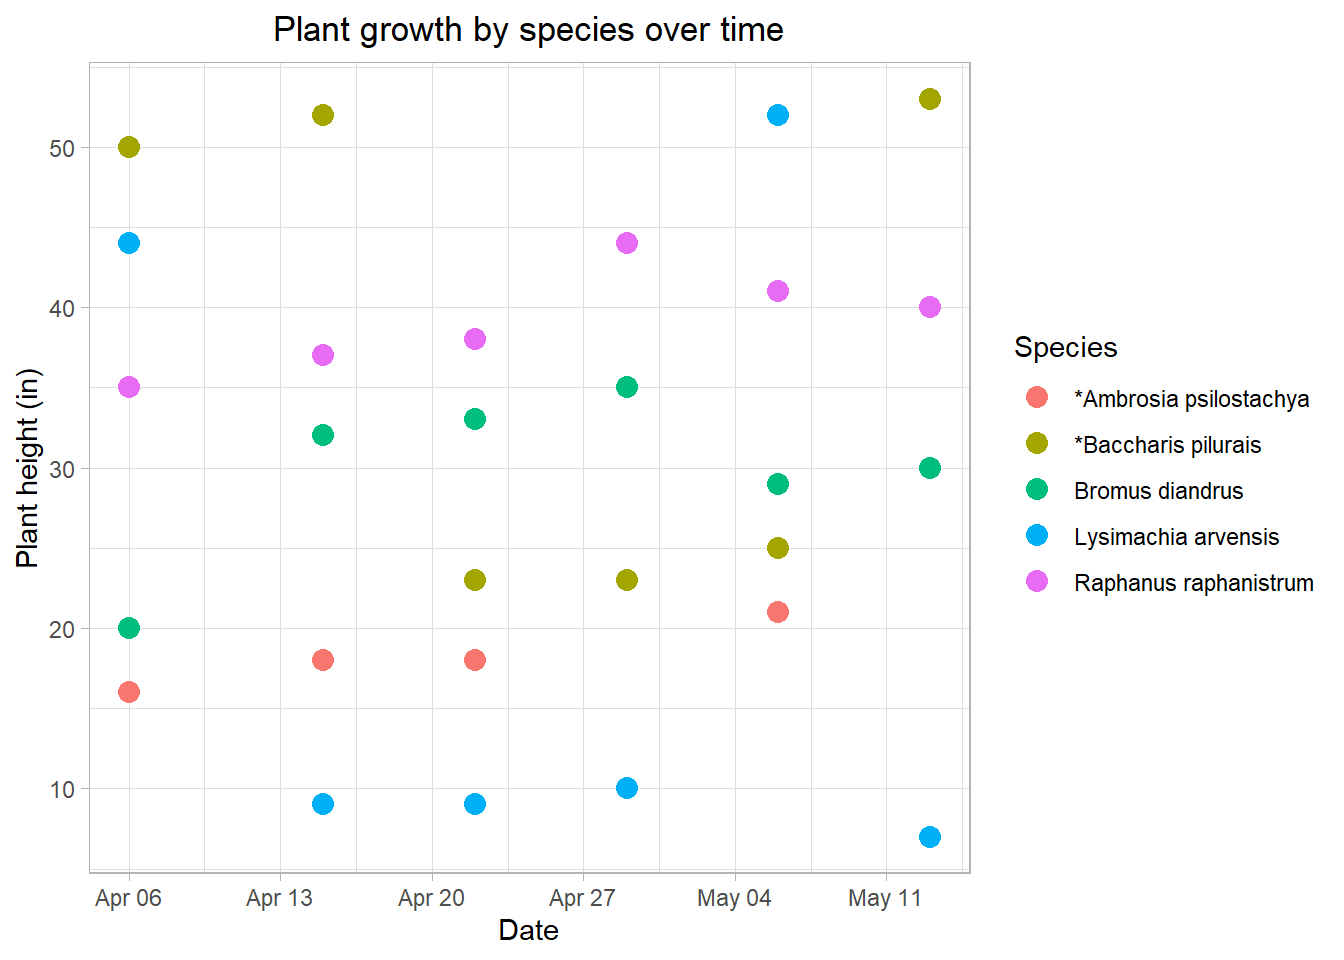
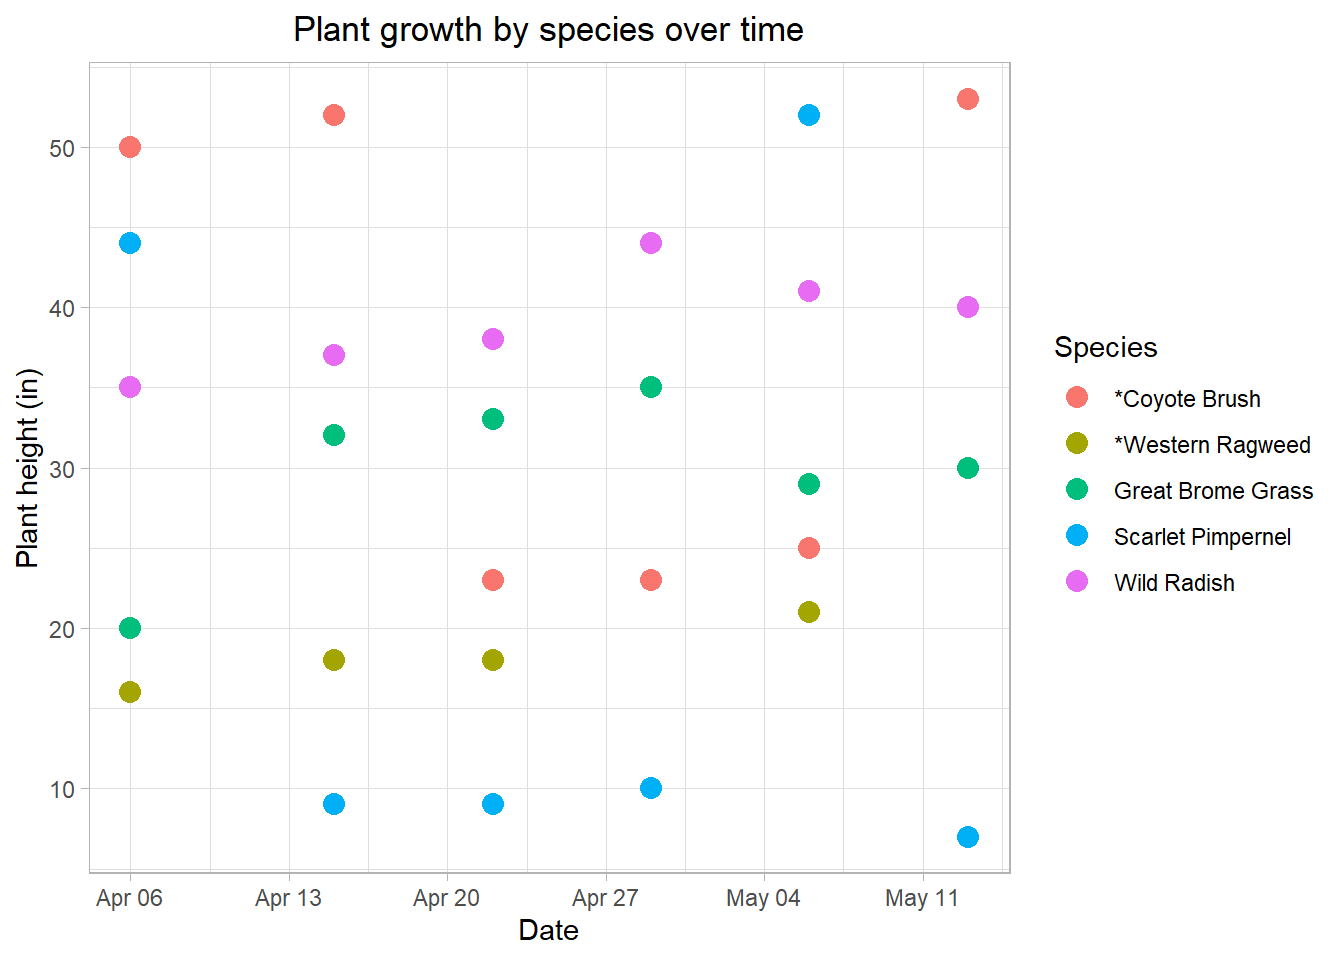
reorganize models and label following hypothesis

diff --git a/code/Modeling.html b/code/Modeling.html
@@ -132,29 +132,28 @@ pre > code.sourceCode > span > a:first-child::before { text-decoration: underlin
 <span id="cb1-12"><a href="#cb1-12" aria-hidden="true" tabindex="-1"></a>                             <span class="st">"LagoonLappers_DataSheetES153 - R-Studio Data.csv"</span>))</span>
 <span id="cb1-13"><a href="#cb1-13" aria-hidden="true" tabindex="-1"></a><span class="co"># clean data</span></span>
 <span id="cb1-14"><a href="#cb1-14" aria-hidden="true" tabindex="-1"></a>labrynth_clean <span class="ot">&lt;-</span> labrynth <span class="sc">|&gt;</span> <span class="co"># create new object</span></span>
-<span id="cb1-15"><a href="#cb1-15" aria-hidden="true" tabindex="-1"></a>  <span class="fu">clean_names</span>() <span class="co"># clean column names to lower case and underscores</span></span>
-<span id="cb1-16"><a href="#cb1-16" aria-hidden="true" tabindex="-1"></a></span>
-<span id="cb1-17"><a href="#cb1-17" aria-hidden="true" tabindex="-1"></a>labrynth_adj <span class="ot">&lt;-</span> labrynth_clean <span class="sc">|&gt;</span> <span class="co">#create new object for voiding a scpecies</span></span>
-<span id="cb1-18"><a href="#cb1-18" aria-hidden="true" tabindex="-1"></a>  <span class="fu">filter</span>(common_name_plant <span class="sc">%in%</span> <span class="fu">c</span>(<span class="st">"Great Brome Grass"</span>, <span class="st">"Scarlet Pimpernel"</span>, <span class="st">"Wild Radish"</span>,<span class="st">"*Coyote Brush"</span>))</span></code></pre></div><button title="Copy to Clipboard" class="code-copy-button"><i class="bi"></i></button></div>
+<span id="cb1-15"><a href="#cb1-15" aria-hidden="true" tabindex="-1"></a>  <span class="fu">clean_names</span>() <span class="co"># clean column names to lower case and underscores</span></span></code></pre></div><button title="Copy to Clipboard" class="code-copy-button"><i class="bi"></i></button></div>
 </div>
 </section>
 <section id="figures" class="level1">
 <h1>Figures</h1>
+<p><strong>Hypothesis 1.</strong> Long-term daily direct exposure to sunlight on a patch of vegetation will show a higher flower count compared to vegetation characterized by shadows from trees.</p>
 <section id="figure-1.-sunlight-exposure-and-flower-count" class="level2">
 <h2 class="anchored" data-anchor-id="figure-1.-sunlight-exposure-and-flower-count">Figure 1. Sunlight Exposure and Flower Count</h2>
 <div class="cell">
 <div class="code-copy-outer-scaffold"><div class="sourceCode cell-code" id="cb2"><pre class="sourceCode r code-with-copy"><code class="sourceCode r"><span id="cb2-1"><a href="#cb2-1" aria-hidden="true" tabindex="-1"></a><span class="fu">ggplot</span>(<span class="at">data =</span> labrynth_clean,</span>
 <span id="cb2-2"><a href="#cb2-2" aria-hidden="true" tabindex="-1"></a>       <span class="fu">aes</span>(<span class="at">x =</span> shadow_from_tree_root_ft,</span>
 <span id="cb2-3"><a href="#cb2-3" aria-hidden="true" tabindex="-1"></a>       <span class="at">y =</span> flower_bud_count,</span>
-<span id="cb2-4"><a href="#cb2-4" aria-hidden="true" tabindex="-1"></a>       <span class="at">color =</span> plant_species)) <span class="sc">+</span></span>
-<span id="cb2-5"><a href="#cb2-5" aria-hidden="true" tabindex="-1"></a>  <span class="fu">geom_point</span>(<span class="at">size =</span> <span class="fl">3.5</span>) <span class="sc">+</span></span>
-<span id="cb2-6"><a href="#cb2-6" aria-hidden="true" tabindex="-1"></a>  <span class="fu">labs</span>(<span class="at">title =</span> <span class="st">"Flower bud patterns by tree shadow"</span>,</span>
-<span id="cb2-7"><a href="#cb2-7" aria-hidden="true" tabindex="-1"></a>       <span class="at">x =</span> <span class="st">"Shadow length from tree root (ft)"</span>,</span>
-<span id="cb2-8"><a href="#cb2-8" aria-hidden="true" tabindex="-1"></a>       <span class="at">y =</span> <span class="st">"Flower bud count"</span>,</span>
-<span id="cb2-9"><a href="#cb2-9" aria-hidden="true" tabindex="-1"></a>       <span class="at">color =</span> <span class="st">"Species"</span>) <span class="sc">+</span></span>
-<span id="cb2-10"><a href="#cb2-10" aria-hidden="true" tabindex="-1"></a>  <span class="fu">theme_light</span>() <span class="sc">+</span> <span class="co"># change theme </span></span>
-<span id="cb2-11"><a href="#cb2-11" aria-hidden="true" tabindex="-1"></a>  <span class="fu">theme</span>(<span class="at">legend.position =</span> <span class="st">"right"</span>,</span>
-<span id="cb2-12"><a href="#cb2-12" aria-hidden="true" tabindex="-1"></a>        <span class="at">plot.title =</span> <span class="fu">element_text</span>(<span class="at">hjust =</span> <span class="fl">0.5</span>))</span></code></pre></div><button title="Copy to Clipboard" class="code-copy-button"><i class="bi"></i></button></div>
+<span id="cb2-4"><a href="#cb2-4" aria-hidden="true" tabindex="-1"></a>       <span class="at">color =</span> common_name_plant)) <span class="sc">+</span></span>
+<span id="cb2-5"><a href="#cb2-5" aria-hidden="true" tabindex="-1"></a>  <span class="fu">geom_point</span>(<span class="at">size =</span> <span class="fl">3.5</span>,</span>
+<span id="cb2-6"><a href="#cb2-6" aria-hidden="true" tabindex="-1"></a>             <span class="at">alpha =</span> <span class="fl">0.5</span>) <span class="sc">+</span></span>
+<span id="cb2-7"><a href="#cb2-7" aria-hidden="true" tabindex="-1"></a>  <span class="fu">labs</span>(<span class="at">title =</span> <span class="st">"Flower bud patterns by tree shadow"</span>,</span>
+<span id="cb2-8"><a href="#cb2-8" aria-hidden="true" tabindex="-1"></a>       <span class="at">x =</span> <span class="st">"Shadow length from tree root (ft)"</span>,</span>
+<span id="cb2-9"><a href="#cb2-9" aria-hidden="true" tabindex="-1"></a>       <span class="at">y =</span> <span class="st">"Flower bud count"</span>,</span>
+<span id="cb2-10"><a href="#cb2-10" aria-hidden="true" tabindex="-1"></a>       <span class="at">color =</span> <span class="st">"Species"</span>) <span class="sc">+</span></span>
+<span id="cb2-11"><a href="#cb2-11" aria-hidden="true" tabindex="-1"></a>  <span class="fu">theme_light</span>() <span class="sc">+</span> <span class="co"># change theme </span></span>
+<span id="cb2-12"><a href="#cb2-12" aria-hidden="true" tabindex="-1"></a>  <span class="fu">theme</span>(<span class="at">legend.position =</span> <span class="st">"right"</span>,</span>
+<span id="cb2-13"><a href="#cb2-13" aria-hidden="true" tabindex="-1"></a>        <span class="at">plot.title =</span> <span class="fu">element_text</span>(<span class="at">hjust =</span> <span class="fl">0.5</span>))</span></code></pre></div><button title="Copy to Clipboard" class="code-copy-button"><i class="bi"></i></button></div>
 <div class="cell-output-display">
 <div>
 <figure class="figure">
@@ -163,50 +162,23 @@ pre > code.sourceCode > span > a:first-child::before { text-decoration: underlin
 </div>
 </div>
 </div>
+<p><strong>Hypothesis 2.</strong> Native plant vegetation will be shorter if there is taller non-native grasses in close proximity.</p>
 </section>
-<section id="figure-2.-wind-and-plant-height" class="level2">
-<h2 class="anchored" data-anchor-id="figure-2.-wind-and-plant-height">Figure 2. Wind and plant height</h2>
+<section id="figure-2.-species-height-over-time" class="level2">
+<h2 class="anchored" data-anchor-id="figure-2.-species-height-over-time">Figure 2. Species height over time</h2>
 <div class="cell">
 <div class="code-copy-outer-scaffold"><div class="sourceCode cell-code" id="cb3"><pre class="sourceCode r code-with-copy"><code class="sourceCode r"><span id="cb3-1"><a href="#cb3-1" aria-hidden="true" tabindex="-1"></a><span class="fu">ggplot</span>(<span class="at">data =</span> labrynth_clean,</span>
-<span id="cb3-2"><a href="#cb3-2" aria-hidden="true" tabindex="-1"></a>       <span class="fu">aes</span>(<span class="at">x =</span> wind_speed_mph,</span>
+<span id="cb3-2"><a href="#cb3-2" aria-hidden="true" tabindex="-1"></a>       <span class="fu">aes</span>(<span class="at">x =</span> date,</span>
 <span id="cb3-3"><a href="#cb3-3" aria-hidden="true" tabindex="-1"></a>           <span class="at">y =</span> height_of_each_plant_species_in,</span>
-<span id="cb3-4"><a href="#cb3-4" aria-hidden="true" tabindex="-1"></a>           <span class="at">color =</span> plant_species)) <span class="sc">+</span></span>
+<span id="cb3-4"><a href="#cb3-4" aria-hidden="true" tabindex="-1"></a>           <span class="at">color =</span> common_name_plant)) <span class="sc">+</span></span>
 <span id="cb3-5"><a href="#cb3-5" aria-hidden="true" tabindex="-1"></a>  <span class="fu">geom_point</span>(<span class="at">size =</span> <span class="fl">3.5</span>) <span class="sc">+</span></span>
 <span id="cb3-6"><a href="#cb3-6" aria-hidden="true" tabindex="-1"></a>  <span class="fu">theme_light</span>() <span class="sc">+</span></span>
-<span id="cb3-7"><a href="#cb3-7" aria-hidden="true" tabindex="-1"></a>  <span class="fu">labs</span>(<span class="at">title =</span> <span class="st">"Wind speed relationship with plant growth"</span>,</span>
-<span id="cb3-8"><a href="#cb3-8" aria-hidden="true" tabindex="-1"></a>       <span class="at">x =</span> <span class="st">"Wind speed (mph)"</span>,</span>
+<span id="cb3-7"><a href="#cb3-7" aria-hidden="true" tabindex="-1"></a>  <span class="fu">labs</span>(<span class="at">title =</span> <span class="st">"Plant growth by species over time"</span>,</span>
+<span id="cb3-8"><a href="#cb3-8" aria-hidden="true" tabindex="-1"></a>       <span class="at">x =</span> <span class="st">"Date"</span>,</span>
 <span id="cb3-9"><a href="#cb3-9" aria-hidden="true" tabindex="-1"></a>       <span class="at">y =</span> <span class="st">"Plant height (in)"</span>,</span>
 <span id="cb3-10"><a href="#cb3-10" aria-hidden="true" tabindex="-1"></a>       <span class="at">color =</span> <span class="st">"Species"</span>) <span class="sc">+</span></span>
 <span id="cb3-11"><a href="#cb3-11" aria-hidden="true" tabindex="-1"></a>  <span class="fu">theme</span>(<span class="at">legend.position =</span> <span class="st">"right"</span>,</span>
 <span id="cb3-12"><a href="#cb3-12" aria-hidden="true" tabindex="-1"></a>        <span class="at">plot.title =</span> <span class="fu">element_text</span>(<span class="at">hjust =</span> <span class="fl">0.5</span>))</span></code></pre></div><button title="Copy to Clipboard" class="code-copy-button"><i class="bi"></i></button></div>
-<div class="cell-output cell-output-stderr">
-<pre><code>Warning: Removed 2 rows containing missing values or values outside the scale range
-(`geom_point()`).</code></pre>
-</div>
-<div class="cell-output-display">
-<div>
-<figure class="figure">
-<p><img src="Modeling_files/figure-html/Wind%20speed%20and%20plant%20height-1.png" class="img-fluid figure-img" width="672"></p>
-</figure>
-</div>
-</div>
-</div>
-</section>
-<section id="figure-3.-species-height-over-time" class="level2">
-<h2 class="anchored" data-anchor-id="figure-3.-species-height-over-time">Figure 3. Species height over time</h2>
-<div class="cell">
-<div class="code-copy-outer-scaffold"><div class="sourceCode cell-code" id="cb5"><pre class="sourceCode r code-with-copy"><code class="sourceCode r"><span id="cb5-1"><a href="#cb5-1" aria-hidden="true" tabindex="-1"></a><span class="fu">ggplot</span>(<span class="at">data =</span> labrynth_clean,</span>
-<span id="cb5-2"><a href="#cb5-2" aria-hidden="true" tabindex="-1"></a>       <span class="fu">aes</span>(<span class="at">x =</span> date,</span>
-<span id="cb5-3"><a href="#cb5-3" aria-hidden="true" tabindex="-1"></a>           <span class="at">y =</span> height_of_each_plant_species_in,</span>
-<span id="cb5-4"><a href="#cb5-4" aria-hidden="true" tabindex="-1"></a>           <span class="at">color =</span> plant_species)) <span class="sc">+</span></span>
-<span id="cb5-5"><a href="#cb5-5" aria-hidden="true" tabindex="-1"></a>  <span class="fu">geom_point</span>(<span class="at">size =</span> <span class="fl">3.5</span>) <span class="sc">+</span></span>
-<span id="cb5-6"><a href="#cb5-6" aria-hidden="true" tabindex="-1"></a>  <span class="fu">theme_light</span>() <span class="sc">+</span></span>
-<span id="cb5-7"><a href="#cb5-7" aria-hidden="true" tabindex="-1"></a>  <span class="fu">labs</span>(<span class="at">title =</span> <span class="st">"Plant growth by species over time"</span>,</span>
-<span id="cb5-8"><a href="#cb5-8" aria-hidden="true" tabindex="-1"></a>       <span class="at">x =</span> <span class="st">"Date"</span>,</span>
-<span id="cb5-9"><a href="#cb5-9" aria-hidden="true" tabindex="-1"></a>       <span class="at">y =</span> <span class="st">"Plant height (in)"</span>,</span>
-<span id="cb5-10"><a href="#cb5-10" aria-hidden="true" tabindex="-1"></a>       <span class="at">color =</span> <span class="st">"Species"</span>) <span class="sc">+</span></span>
-<span id="cb5-11"><a href="#cb5-11" aria-hidden="true" tabindex="-1"></a>  <span class="fu">theme</span>(<span class="at">legend.position =</span> <span class="st">"right"</span>,</span>
-<span id="cb5-12"><a href="#cb5-12" aria-hidden="true" tabindex="-1"></a>        <span class="at">plot.title =</span> <span class="fu">element_text</span>(<span class="at">hjust =</span> <span class="fl">0.5</span>))</span></code></pre></div><button title="Copy to Clipboard" class="code-copy-button"><i class="bi"></i></button></div>
 <div class="cell-output cell-output-stderr">
 <pre><code>Warning: Removed 2 rows containing missing values or values outside the scale range
 (`geom_point()`).</code></pre>
@@ -219,6 +191,36 @@ pre > code.sourceCode > span > a:first-child::before { text-decoration: underlin
 </div>
 </div>
 </div>
+<p><strong>Hypothesis 3.</strong> Consistently strong winds will tilt and decrease overall growth height of plants in our study system.</p>
+</section>
+<section id="figure-3.-wind-and-plant-height" class="level2">
+<h2 class="anchored" data-anchor-id="figure-3.-wind-and-plant-height">Figure 3. Wind and plant height</h2>
+<div class="cell">
+<div class="code-copy-outer-scaffold"><div class="sourceCode cell-code" id="cb5"><pre class="sourceCode r code-with-copy"><code class="sourceCode r"><span id="cb5-1"><a href="#cb5-1" aria-hidden="true" tabindex="-1"></a><span class="fu">ggplot</span>(<span class="at">data =</span> labrynth_clean,</span>
+<span id="cb5-2"><a href="#cb5-2" aria-hidden="true" tabindex="-1"></a>       <span class="fu">aes</span>(<span class="at">x =</span> wind_speed_mph,</span>
+<span id="cb5-3"><a href="#cb5-3" aria-hidden="true" tabindex="-1"></a>           <span class="at">y =</span> height_of_each_plant_species_in,</span>
+<span id="cb5-4"><a href="#cb5-4" aria-hidden="true" tabindex="-1"></a>           <span class="at">color =</span> common_name_plant)) <span class="sc">+</span></span>
+<span id="cb5-5"><a href="#cb5-5" aria-hidden="true" tabindex="-1"></a>  <span class="fu">geom_point</span>(<span class="at">size =</span> <span class="fl">3.5</span>) <span class="sc">+</span></span>
+<span id="cb5-6"><a href="#cb5-6" aria-hidden="true" tabindex="-1"></a>  <span class="fu">theme_light</span>() <span class="sc">+</span></span>
+<span id="cb5-7"><a href="#cb5-7" aria-hidden="true" tabindex="-1"></a>  <span class="fu">labs</span>(<span class="at">title =</span> <span class="st">"Wind speed relationship with plant growth"</span>,</span>
+<span id="cb5-8"><a href="#cb5-8" aria-hidden="true" tabindex="-1"></a>       <span class="at">x =</span> <span class="st">"Wind speed (mph)"</span>,</span>
+<span id="cb5-9"><a href="#cb5-9" aria-hidden="true" tabindex="-1"></a>       <span class="at">y =</span> <span class="st">"Plant height (in)"</span>,</span>
+<span id="cb5-10"><a href="#cb5-10" aria-hidden="true" tabindex="-1"></a>       <span class="at">color =</span> <span class="st">"Species"</span>) <span class="sc">+</span></span>
+<span id="cb5-11"><a href="#cb5-11" aria-hidden="true" tabindex="-1"></a>  <span class="fu">theme</span>(<span class="at">legend.position =</span> <span class="st">"right"</span>,</span>
+<span id="cb5-12"><a href="#cb5-12" aria-hidden="true" tabindex="-1"></a>        <span class="at">plot.title =</span> <span class="fu">element_text</span>(<span class="at">hjust =</span> <span class="fl">0.5</span>))</span></code></pre></div><button title="Copy to Clipboard" class="code-copy-button"><i class="bi"></i></button></div>
+<div class="cell-output cell-output-stderr">
+<pre><code>Warning: Removed 2 rows containing missing values or values outside the scale range
+(`geom_point()`).</code></pre>
+</div>
+<div class="cell-output-display">
+<div>
+<figure class="figure">
+<p><img src="Modeling_files/figure-html/Wind%20speed%20and%20plant%20height-1.png" class="img-fluid figure-img" width="672"></p>
+</figure>
+</div>
+</div>
+</div>
+<p><strong>Extra figure</strong> – yadayada</p>
 </section>
 </section>
 